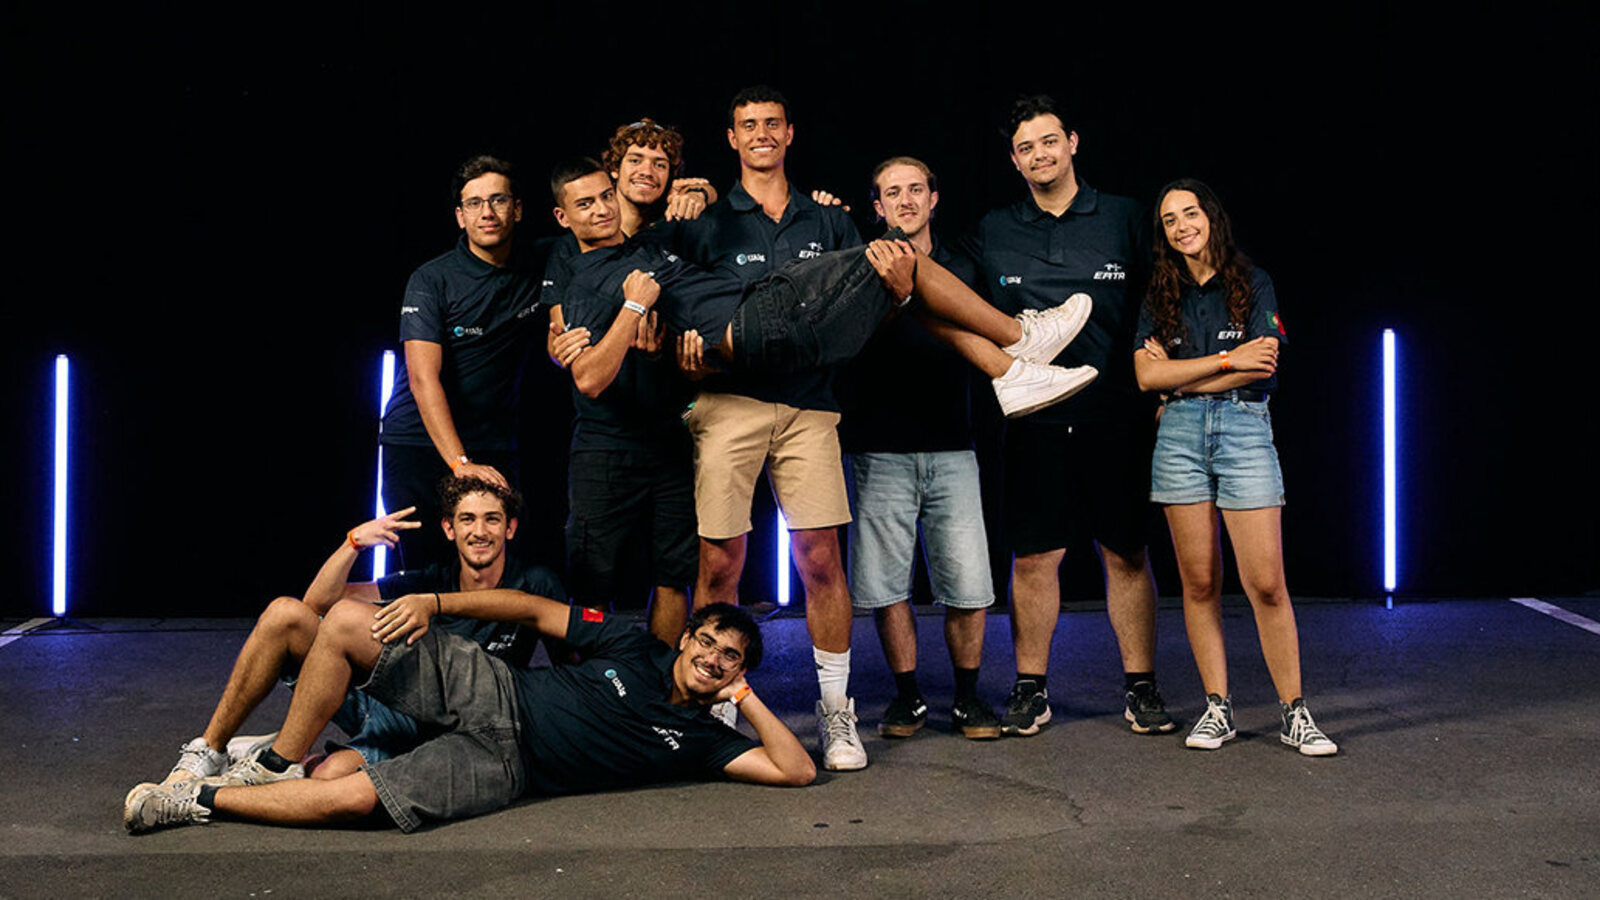
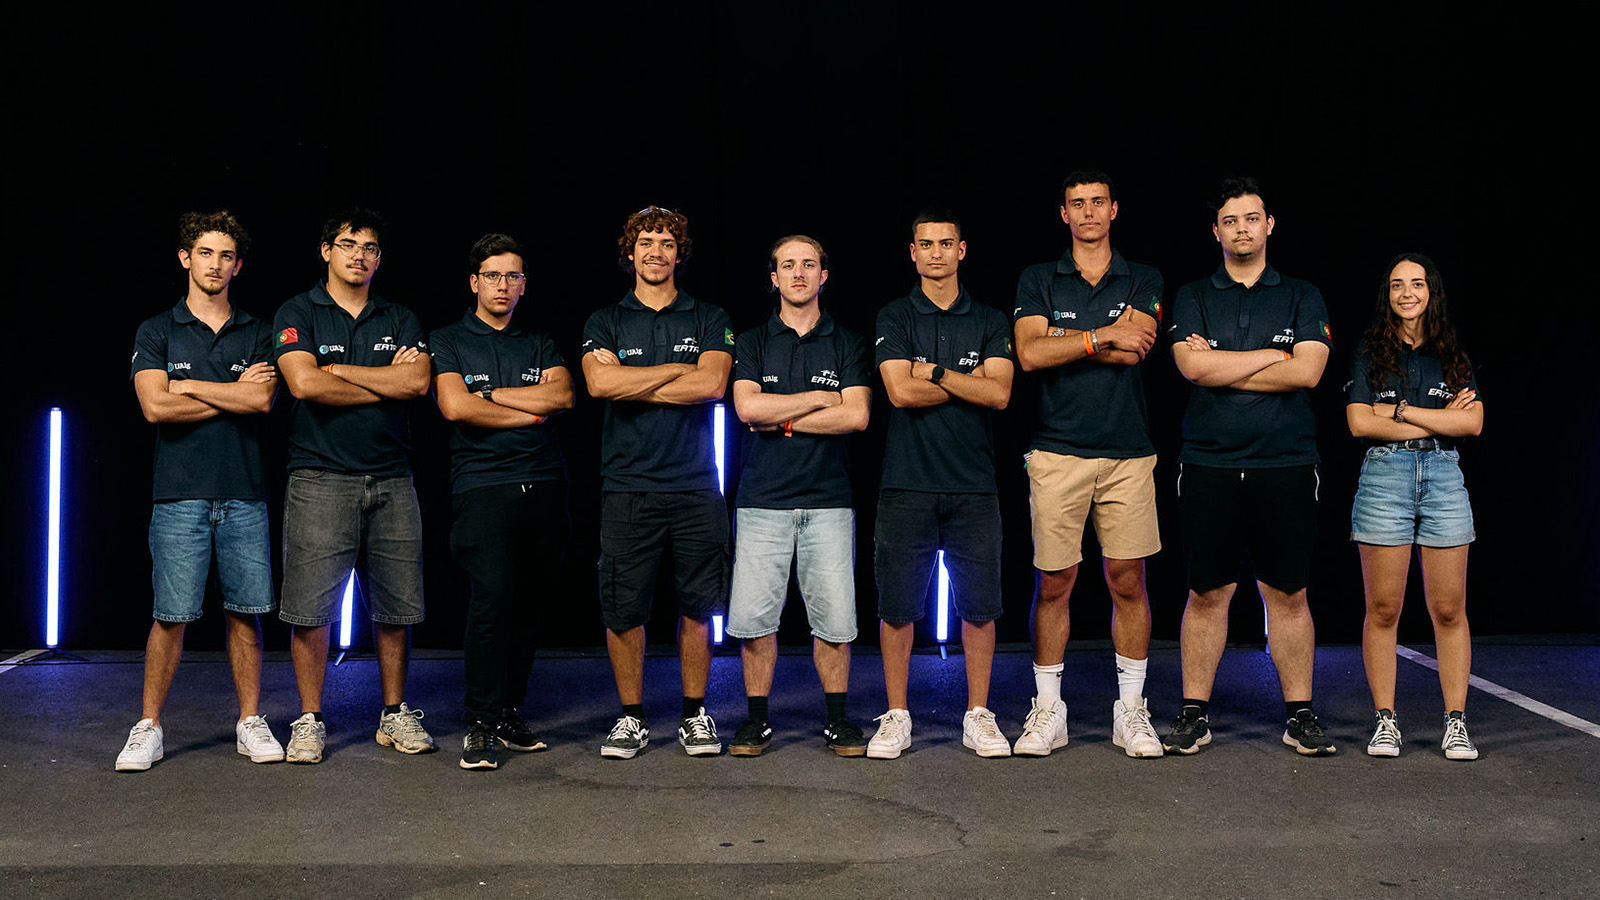
update

diff --git a/src/components/TeamMemberCard.tsx b/src/components/TeamMemberCard.tsx
@@ -23,12 +23,12 @@ const TeamMemberCard: React.FC<TeamMemberCardProps> = ({ member }) => {
 
   return (
     <article className="group relative h-full">
-      <div className="relative h-full overflow-hidden rounded-[var(--radius-lg)] border border-[var(--site-card-border)] bg-[color:var(--site-surface-strong)] transition duration-500 group-hover:z-10 group-hover:border-[color:var(--site-accent)] group-hover:shadow-[0_0_60px_rgba(34,211,238,0.14)]">
+      <div className="relative h-full overflow-hidden rounded-[var(--radius-lg)] border border-[var(--site-card-border)] bg-[color:var(--site-surface-strong)] transition duration-300 group-hover:z-10 group-hover:border-[color:var(--site-accent)] group-hover:shadow-[0_0_60px_rgba(34,211,238,0.14)]">
         <div className="relative aspect-[4/5] w-full overflow-hidden">
           <img
             src={photoUrl}
             alt={t("team-page.card.photo-alt", { name })}
-            className="h-full w-full object-cover transition duration-700 group-hover:scale-105"
+            className="h-full w-full object-cover transition duration-500 group-hover:scale-105"
             loading="lazy"
           />
           <div className="absolute inset-x-0 bottom-0 h-[55%] bg-gradient-to-t from-slate-950 to-transparent" />
@@ -36,7 +36,7 @@ const TeamMemberCard: React.FC<TeamMemberCardProps> = ({ member }) => {
             {department}
           </span>
         </div>
-        <div className="absolute inset-x-0 bottom-0 flex flex-col gap-2 p-4 transition-all duration-500 group-hover:translate-y-[-4px]">
+        <div className="absolute inset-x-0 bottom-0 flex flex-col gap-2 p-4 transition-all duration-300 group-hover:translate-y-[-4px]">
           <div className="space-y-1">
             <h3 className="text-lg font-black uppercase tracking-[0.08em] text-white">{name}</h3>
             {displayRole && (
@@ -44,7 +44,7 @@ const TeamMemberCard: React.FC<TeamMemberCardProps> = ({ member }) => {
             )}
           </div>
           {cardCopy && (
-            <p className="max-h-0 overflow-hidden text-xs leading-relaxed text-white/80 opacity-0 transition-all duration-500 group-hover:max-h-32 group-hover:opacity-100">
+            <p className="max-h-0 overflow-hidden text-xs leading-relaxed text-white/80 opacity-0 transition-all duration-300 group-hover:max-h-32 group-hover:opacity-100">
               {cardCopy}
             </p>
           )}

diff --git a/src/components/Card/PartnerCard.tsx b/src/components/Card/PartnerCard.tsx
@@ -29,7 +29,7 @@ export default function PartnerCard({ partner, featured = false, compact = false
             target="_blank"
             rel="noopener noreferrer"
             aria-label={t("partners-page.card.open", { name: partner.name })}
-            className={`group site-panel flex h-full flex-col justify-between gap-6 rounded-[1.75rem] border transition duration-300 hover:-translate-y-1 hover:border-[color:var(--site-accent)] hover:shadow-[0_0_40px_rgba(34,211,238,0.12)] ${
+            className={`group site-panel flex h-full flex-col justify-between gap-6 rounded-[1.75rem] border transition duration-200 hover:-translate-y-1 hover:border-[color:var(--site-accent)] hover:shadow-[0_0_40px_rgba(34,211,238,0.12)] ${
                 isGold
                     ? "border-amber-300/70 shadow-[0_0_40px_rgba(251,191,36,0.18)]"
                     : featured

diff --git a/src/data/Results.ts b/src/data/Results.ts
@@ -1,5 +1,7 @@
 import heroImage from "../assets/results/hero.webp";
 import teamImage from "../assets/results/team.jpg";
+import prepImage from "../assets/results/prep.jpg";
+import ontrackImage from "../assets/results/ontrack.jpg";
 
 export interface CompetitionEvent {
     id: "cost" | "business" | "design";
@@ -46,11 +48,13 @@ const results: CompetitionResult[] = [
             },
             {
                 id: "prep",
+                image: prepImage,
                 altKey: "results-page.gallery.prep-alt",
                 captionKey: "results-page.gallery.prep",
             },
             {
                 id: "track",
+                image: ontrackImage,
                 altKey: "results-page.gallery.track-alt",
                 captionKey: "results-page.gallery.track",
             },

diff --git a/src/App.tsx b/src/App.tsx
@@ -1,5 +1,15 @@
-import { lazy, Suspense } from "react"
-import { BrowserRouter, Routes, Route } from "react-router-dom"
+import { lazy, Suspense, useEffect } from "react"
+import { BrowserRouter, Routes, Route, useLocation } from "react-router-dom"
+
+function ScrollToTop() {
+  const { pathname } = useLocation()
+
+  useEffect(() => {
+    window.scrollTo({ top: 0, left: 0, behavior: "instant" })
+  }, [pathname])
+
+  return null
+}
 
 const Home = lazy(() => import("./pages/Home"))
 const JoinForm = lazy(() => import("./pages/JoinForm"))
@@ -21,6 +31,7 @@ function RouteFallback() {
 function App() {
   return (
     <BrowserRouter>
+      <ScrollToTop />
       <Suspense fallback={<RouteFallback />}>
         <Routes>
           {/* homepage */}

diff --git a/src/index.css b/src/index.css
@@ -73,12 +73,16 @@ html {
   scroll-behavior: smooth;
 }
 
-*,
-*::before,
-*::after {
-  transition-property: color, background-color, border-color, box-shadow, opacity, transform, filter;
-  transition-duration: 0.2s;
-  transition-timing-function: ease;
+@layer base {
+
+  *,
+  *::before,
+  *::after {
+    transition-property: color, background-color, border-color, box-shadow, opacity, transform, filter;
+    transition-duration: 0.2s;
+    transition-timing-function: ease;
+  }
+
 }
 
 body {
